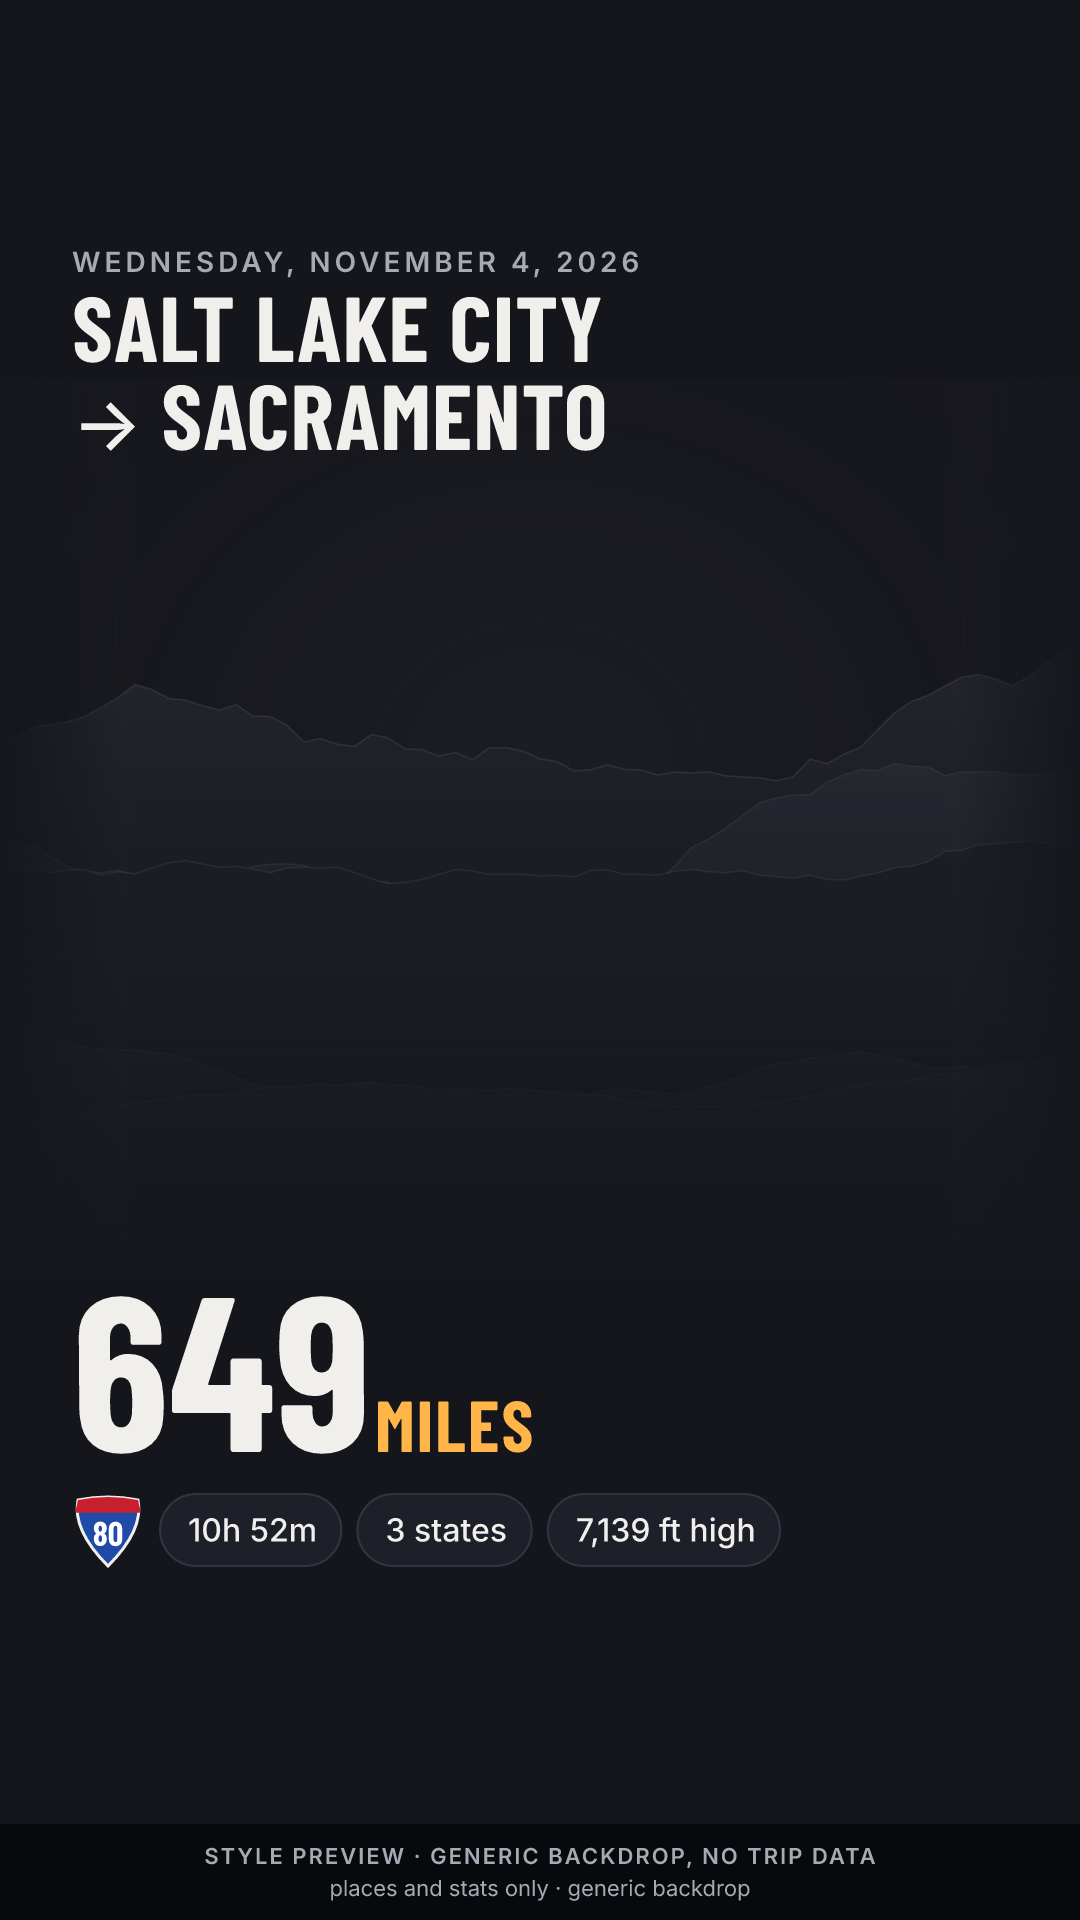
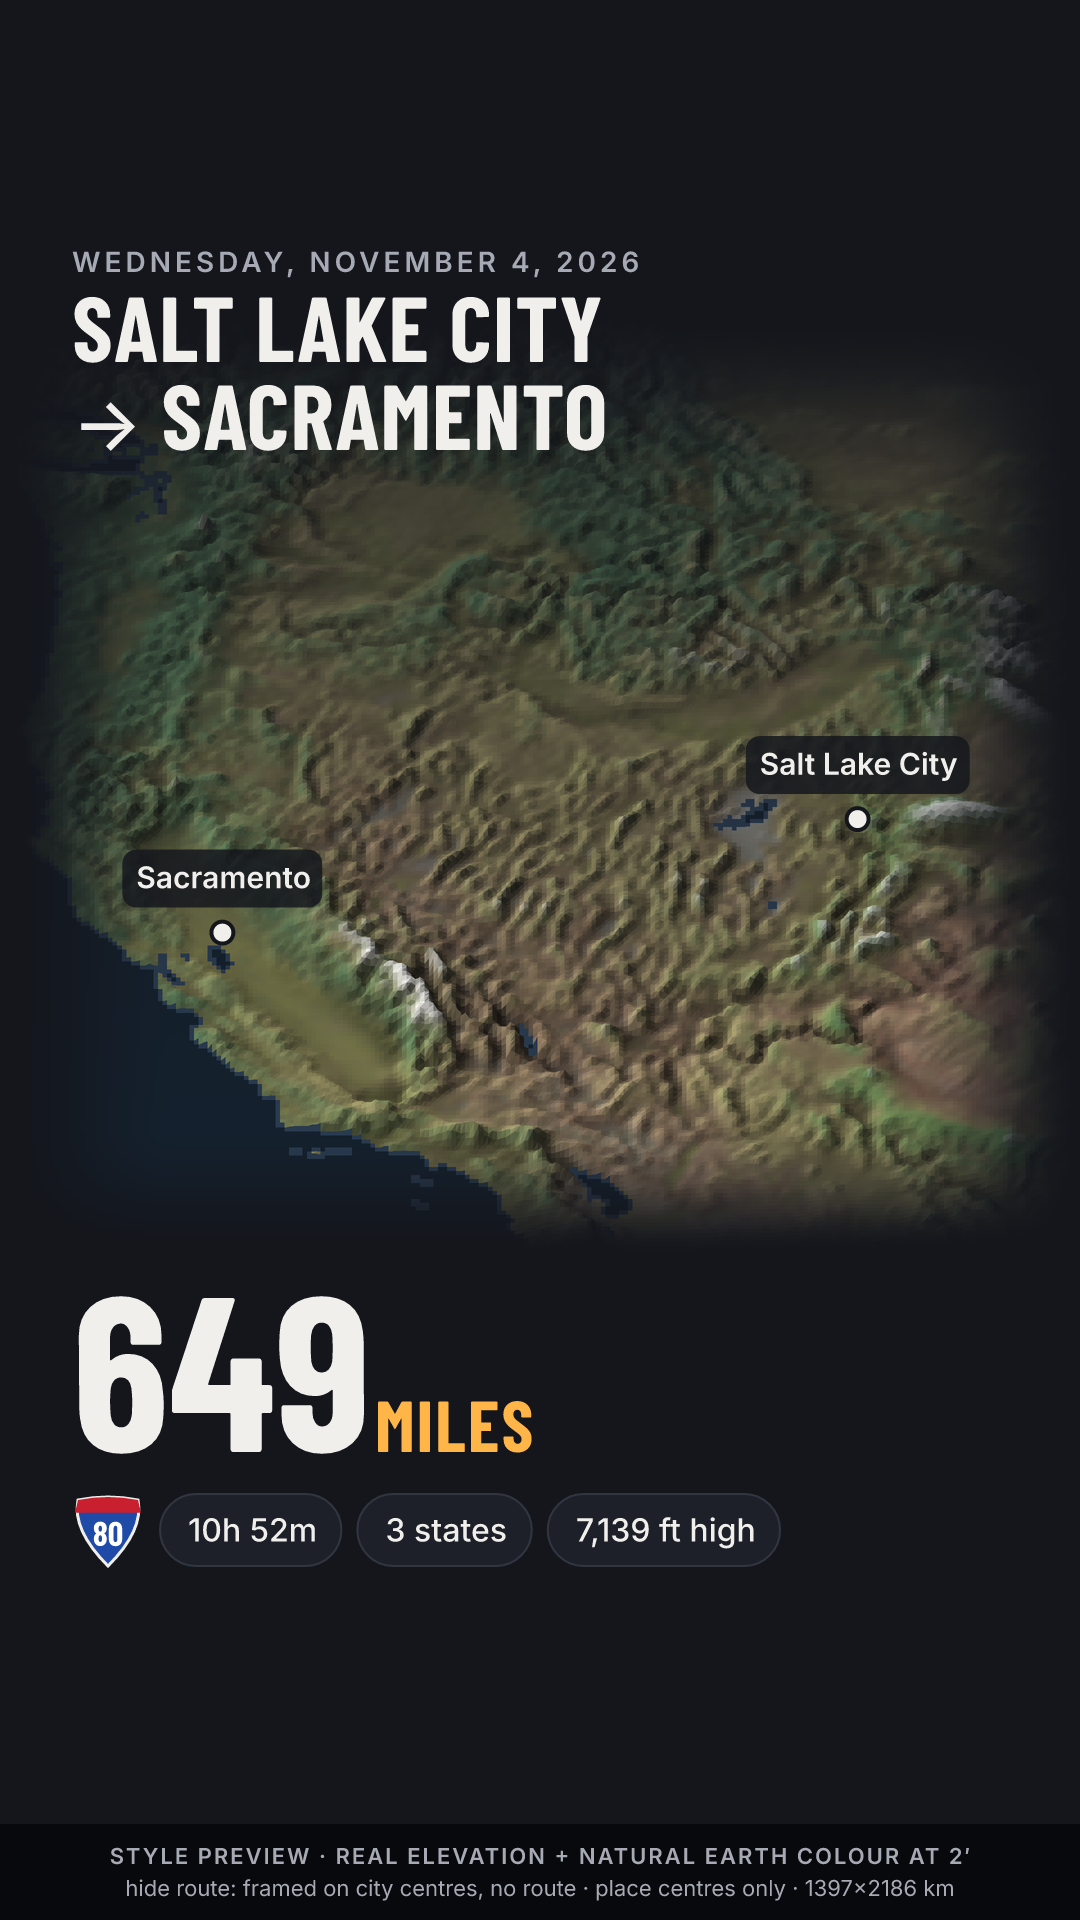
design: Terrain style 3, land-cover colour and place-framed hide-route (ROA-11)
Board feedback: all-grey 3D looks weird; hide-route card has no picture;
look at Strava.
- Ground colour from Natural Earth I land cover at the 2' grid, graded for
  the dark card, plus snow above 2,600 m and a real water colour. Extends
  plan §5.1 at the board's request.
- Hide-route shows relief framed on the two named places' city centres with
  pins and names; no route, route light, crop or summit. Generic backdrop
  retired.
- Stronger ribbon casing for amber over tan desert.

Changed region(s): [[0.0611, 0.2188, 0.9472, 0.6562], [0.1222, 0.9375, 0.8861, 1.0]]

diff --git a/Tools/design/terrain_relief.py b/Tools/design/terrain_relief.py
@@ -3,11 +3,12 @@
 
 Mirrors the ADR 0001 pipeline so the preview never shows more than the app can draw:
   real elevation (AWS Terrain Tiles, Terrarium) -> box-averaged to the 2' grid the app bundles
-  -> 160x160 mesh -> per-triangle colour (hypsometric ramp x hillshade x occlusion, haze, edge fade,
-  route light) -> flat triangles painted far-to-near, like SwiftUI Canvas will.
+  -> mesh -> per-triangle colour (Natural Earth land cover graded for dark, snow, x hillshade x
+  occlusion, haze, edge fade, route light) -> flat triangles painted far-to-near, like SwiftUI Canvas.
+  --places frames two city centre points instead of the route (hide-route card): no route, no light.
 Writes build/<name>.relief.png (1080x1920, RGB) and build/<name>.relief.json (projected route).
 
-Usage: python3 terrain_relief.py <name> [--flat]   (needs numpy, scipy, pillow; Linux design tool only)
+Usage: python3 terrain_relief.py <name> [--flat | --places]   (needs numpy, scipy, pillow; Linux design tool only)
 """
 import io, json, math, os, sys, urllib.request
 import numpy as np
@@ -86,6 +87,33 @@ def sample_grid(g, glon0, glat0, lon, lat):
     return ndimage.map_coordinates(g, [(glat0 - lat) / CELL, (lon - glon0) / CELL], order=3, mode='nearest')
 
 
+# ---------- land cover colour ----------
+_LC = None
+
+
+def landcover(lon, lat):
+    """Natural Earth I land cover (NE1_LR_LC, public domain) resampled to the 2' grid, RGB 0-255."""
+    global _LC
+    if _LC is None:
+        Image.MAX_IMAGE_PIXELS = None
+        p = os.path.join(CACHE, 'ne', 'ne1_2min.png')
+        if not os.path.exists(p):
+            sys.exit('missing .cache/ne/ne1_2min.png: run Tools/design/fetch_landcover.py first')
+        _LC = np.asarray(Image.open(p).convert('RGB'), np.float32)
+    r, c = (90 - np.asarray(lat)) / CELL - 0.5, (np.asarray(lon) + 180) / CELL - 0.5
+    return np.stack([ndimage.map_coordinates(_LC[..., q], [r, c], order=1, mode='nearest') for q in range(3)], -1)
+
+
+def grade(rgb):
+    """Grade the daylight land-cover tint for the dark card (terrain.landCover tokens)."""
+    lc = TT['landCover']
+    c = rgb / 255.0
+    lum = (c @ np.array([0.299, 0.587, 0.114]))[..., None]
+    c = lum + (c - lum) * v(lc['saturation'])
+    c = np.clip(c, 0, 1) ** v(lc['gamma']) * v(lc['brightness'])
+    return c * 255
+
+
 # ---------- routes ----------
 def densify(pts, step_m):
     out = [pts[0]]
@@ -157,6 +185,12 @@ def route_osrm(name, step):
     return [[p[0], p[1], float(a)] for p, a in zip(pts, alt)]
 
 
+PLACES = {  # city centre points (what the card's title already names), never trip points
+    'i80': [[-111.891, 40.761], [-121.494, 38.582]],
+    'brenner': [[11.393, 47.268], [11.354, 46.498]],
+    'nullarbor': [[121.783, -32.198], [133.676, -32.126]],
+}
+
 ROUTES = {
     'i80': route_i80,
     'brenner': lambda: route_osrm('brenner', 400),
@@ -165,20 +199,15 @@ ROUTES = {
 
 
 # ---------- colour helpers ----------
-def ramp(t):
-    stops = v(TT['land']['ramp'])
-    pos = np.array([s['position'] for s in stops]); cols = np.array([hexrgb(s['color']) for s in stops])
-    return np.stack([np.interp(t, pos, cols[:, q]) for q in range(3)], -1)
-
-
 def smoothstep(a, b, x):
     t = np.clip((x - a) / (b - a), 0, 1)
     return t * t * (3 - 2 * t)
 
 
 # ---------- scene ----------
-def render(name, flat=False):
-    route = ROUTES[name.split('-')[0]]()
+def render(name, flat=False, places=False):
+    key = name.split('-')[0]
+    route = [[lo, la, None] for lo, la in PLACES[key]] if places else ROUTES[key]()
     lon = np.array([p[0] for p in route]); lat = np.array([p[1] for p in route])
     lat0, lon0 = (lat.min() + lat.max()) / 2, (lon.min() + lon.max()) / 2
     kx = math.cos(math.radians(lat0)) * M_PER_DEG
@@ -187,7 +216,7 @@ def render(name, flat=False):
     rx, ry = fwd(lon, lat)
 
     el = math.radians(v(TT['camera']['elevationDeg']))
-    pad = v(L['routePadding'])
+    pad = v(TT['hiddenRoute']['framePadding']) if places else v(L['routePadding'])
     top, fh = v(L['reliefTop']), v(L['reliefHeight'])
     depth_px = fh * v(L['reliefDepthFill'])
     rw = max(np.ptp(rx) * (1 + 2 * pad), MIN_FOOTPRINT)
@@ -221,18 +250,20 @@ def render(name, flat=False):
     SX, SY = project(MX, MY, h)
 
     # ---- per-triangle colour (what RoadPrintCore would emit as colour indices) ----
-    tris, cols, depth = [], [], []
     hs = TT['hillshade']
     az, alt = math.radians(v(hs['lightAzimuthDeg'])), math.radians(v(hs['lightAltitudeDeg']))
     Lv = np.array([math.sin(az) * math.cos(alt), math.cos(az) * math.cos(alt), math.sin(alt)])
     oc = TT['occlusion']
     blur = ndimage.uniform_filter(h, size=2 * v(oc['radiusCells']) + 1, mode='nearest')
     occ = np.clip(1 + v(oc['strength']) * (h - blur) / span, v(oc['min']), v(oc['max']))
-    t_h = np.clip((h - p_lo) / (p_hi - p_lo + 1e-9), 0, 1)
-    base_rgb = ramp(t_h)
-    if flat:
-        base_rgb[:] = hexrgb(v(C['land']))
-    water_rgb = hexrgb(v(TT['land']['water'])); coast_rgb = hexrgb(v(TT['land']['waterEdge']))
+    raw = landcover(MLON, MLAT)
+    # Water: below sea level in the DEM, or Natural Earth's white water/no-data (lakes) at low height.
+    water = water | ((raw.min(-1) > 250) & (h < 2000))
+    base_rgb = grade(raw)
+    sn = TT['snow']
+    snow = 0 if flat else smoothstep(v(sn['startMeters']), v(sn['fullMeters']), h)[..., None] * v(sn['opacity'])
+    base_rgb = base_rgb * (1 - snow) + hexrgb(v(sn['color'])) * snow
+    water_rgb = hexrgb(v(TT['water']['color'])); coast_rgb = hexrgb(v(TT['water']['edge']))
     # world-space fades (fractions of footprint)
     ef = TT['edgeFade']
     u = (MX - x0) / gw; w_ = (MY - y0) / gd
@@ -246,7 +277,7 @@ def render(name, flat=False):
     rpts = (rpts[:-1][None] * (1 - seg) + rpts[1:][None] * seg).reshape(-1, 2)
     dist, _ = cKDTree(rpts).query(np.column_stack([MX.ravel(), MY.ravel()]))
     sigma = v(rl['radius']) / s
-    light = (v(rl['intensity']) * np.exp(-0.5 * (dist / sigma) ** 2)).reshape(MX.shape)
+    light = (v(rl['intensity']) * np.exp(-0.5 * (dist / sigma) ** 2)).reshape(MX.shape) * (0 if places else 1)
     light_rgb = hexrgb(v(rl['color']))
 
     # Smooth vertex normals; each triangle takes the mean of its three vertex shades. Still one flat
@@ -293,6 +324,9 @@ def render(name, flat=False):
     bias = v(TT['ribbon']['depthBias']) / (s * math.cos(el))   # screen-px bias -> exaggerated metres
     pts = []
     for (px_, py_, rec), xx, yy in zip(route, rx, ry):
+        if places:
+            X, Y = project(xx, yy, float(hfun(np.array([xx]), np.array([yy]))[0]))
+            pts.append({'sx': float(X), 'sy': float(Y), 'place': True}); continue
         if rec is None:
             pts.append({'sx': float((xx - x0) * s), 'sy': None, 'gap': True, 'elev': None}); continue
         z = hbase if flat else rec
@@ -313,4 +347,4 @@ def render(name, flat=False):
 
 
 if __name__ == '__main__':
-    render(sys.argv[1], flat='--flat' in sys.argv)
+    render(sys.argv[1], flat='--flat' in sys.argv, places='--places' in sys.argv)

diff --git a/Tools/design/fetch_landcover.py b/Tools/design/fetch_landcover.py
@@ -1,0 +1,24 @@
+#!/usr/bin/env python3
+"""Fetch Natural Earth I land cover (NE1_LR_LC, public domain) and resample it to the ADR 0001 2' grid.
+Writes .cache/ne/ne1_2min.png (10800x5400). Design-preview tool only; ~75 MB download."""
+import os, urllib.request, zipfile
+import numpy as np
+from PIL import Image
+
+D = os.path.join(os.path.dirname(os.path.abspath(__file__)), '.cache', 'ne')
+os.makedirs(D, exist_ok=True)
+z = os.path.join(D, 'NE1_LR_LC.zip')
+if not os.path.exists(z):
+    urllib.request.urlretrieve('https://naturalearth.s3.amazonaws.com/10m_raster/NE1_LR_LC.zip', z)
+tif = zipfile.ZipFile(z).extract('NE1_LR_LC.tif', D)
+im = Image.open(tif)
+w, h = im.size
+off = im.tile[0].offset            # uncompressed contiguous RGB strips: memory-map, resample in bands
+a = np.memmap(tif, dtype=np.uint8, mode='r', offset=off, shape=(h, w, 3))
+out = Image.new('RGB', (10800, 5400))
+band = h // 27
+for r in range(0, h, band):
+    out.paste(Image.fromarray(np.array(a[r:r + band])).resize((10800, band * 5400 // h), Image.BOX), (0, r * 5400 // h))
+out.save(os.path.join(D, 'ne1_2min.png'))
+os.remove(tif)
+print('ne1_2min.png 10800x5400')

diff --git a/Design/cards/terrain/README.md b/Design/cards/terrain/README.md
@@ -1,6 +1,6 @@
 # Terrain share card (Pro)
 
-Style `terrain-style-2` for the Terrain card in plan §4.4 and ADR [0001](../../../docs/adr/0001-terrain-card.md). Export size is 1080×1920 px, sRGB. **The board has not approved this style yet**, so it must not go into the app before that approval ([ROA-11](/ROA/issues/ROA-11)).
+Style `terrain-style-3` for the Terrain card in plan §4.4 and ADR [0001](../../../docs/adr/0001-terrain-card.md). Export size is 1080×1920 px, sRGB. **The board has not approved this style yet**, so it must not go into the app before that approval ([ROA-11](/ROA/issues/ROA-11)).
 
 All values live in [`Design/tokens.json`](../../tokens.json) under `terrain.*`. The SVGs and previews here are built from those tokens. If a file disagrees with the tokens, the tokens win. Every size is in export pixels.
 
@@ -9,8 +9,7 @@ All values live in [`Design/tokens.json`](../../tokens.json) under `terrain.*`. 
 | File | What it is |
 |---|---|
 | `terrain-card.svg` | Editable composition template. Shows the layer order, the slots and the placeholder text. The `#ribbon-*` paths are style samples only |
-| `terrain-card-hide-route.svg` | Template for the "Hide route on card" option: places and stats only, on the generic backdrop |
-| `terrain-backdrop.svg` | Generic backdrop for hide-route, 1080×900. It is the same for every trip and encodes no route, place or summit |
+| `terrain-card-hide-route.svg` | Template for the "Hide route on card" option: places and stats only, over relief framed on the two named places' city centres |
 | `previews/*.png` | 1080×1920 previews (see below) and `contact-sheet.png` |
 
 ## Layer order (bottom to top)
@@ -22,20 +21,22 @@ All values live in [`Design/tokens.json`](../../tokens.json) under `terrain.*`. 
    2. `ribbon-gap`: grey `#a6aab4` dots, 5 px, round caps every 13 px
    3. glow 0: 14 px, blur 6, 65 % opacity
    4. glow 1: 24 px, blur 22, 35 % opacity
-   5. casing: `#14161c`, 13 px, 60 % opacity
+   5. casing: `#14161c`, 14 px, 85 % opacity (separates amber from tan desert)
    6. core: amber, 8 px
 4. `#route-ends`: approximate start and end circles (r 16, 3 px stroke, 18 % fill), because trip ends are trimmed.
 5. `#summit`: marker (r 9 `#f0efec` with a 4 px background ring), a vertical leader (2 px, 70 % opacity, 120 px long) and a label plate (`#14161c` at 85 %, radius 14, padding 14).
 6. Header, stats and road sign.
 
-## Relief look (terrain-style-2)
+## Relief look (terrain-style-3)
 
 What makes the relief read as 3D instead of a grey slab. Each step is plain per-vertex or per-triangle maths, so it belongs in `RoadPrintCore` and ports to Android as is:
 
-1. **Height colour** (`terrain.land.ramp`): trip-relative height (p2 → p99.5 of land in the footprint) through `#1d2029 → #30353f → #6b6f79 → #a6aab4 → #f0efec`, so valleys sit in the dark and peaks catch light.
+1. **Ground colour** (`terrain.landCover`): Natural Earth I land cover (public domain, already a project data source) at the same 2′ grid as the elevation: green forest, tan desert, rock. It is graded for the dark card: saturation 1.6, gamma 1.35, brightness 0.64. **This extends the plan §5.1 palette, at the board's request** (ROA-11: "the 3D should have colour, not all grey"). Water is `terrain.water` (`#15212e`, edge `#2b3d52`).
+   - **Snow** (`terrain.snow`): above 2,600 m the ground blends toward `#f0efec`, fully by 3,300 m (85 %).
+   - **App cost, for the CTO:** the land cover adds a global 10800×5400 RGB layer next to the elevation grid. Compressed size is not measured yet; the 2′ PNG is 30 MB, and a palette-indexed or HEIF version should be far smaller.
 2. **Hillshade** (`terrain.hillshade`): Lambert shading with smooth vertex normals on the exaggerated mesh, light from 300°, 32° up. Each triangle takes the mean of its three vertex shades. Shading each face alone makes neighbours flip between light and dark along the diagonal, which shows as a checkerboard.
 3. **Occlusion** (`terrain.occlusion`): `h − boxBlur(h, 6 cells)` darkens valleys and lifts ridges.
-4. **Route light** (`terrain.routeLight`): heat-ramp `#c2650f` added around the route, a 26 px gaussian at 0.42. It ties the ribbon to the ground. It is not drawn in hide-route mode.
+4. **Route light** (`terrain.routeLight`): heat-ramp `#c2650f` added around the route, a 26 px gaussian at 0.35. It ties the ribbon to the ground. It is not drawn in hide-route mode.
 5. **Haze** (`terrain.haze`): far rows blend to the background colour (0.78 · depth^1.5).
 6. **Edge fade** (`terrain.edgeFade`): sides 16 %, near 14 %, far 20 % of the footprint blend to the background, so the terrain dissolves instead of ending in a cut slab.
 7. **Exaggeration** (`terrain.camera.exaggeration`): 0.065 × footprint width ÷ relief, clamped to 1.5–10×. Above about 10× the 2′ cells turn into needles (I-80 at 25× looked like a hedgehog).
@@ -86,19 +87,19 @@ All text is a live placeholder that the app fills from `TripShareSummary` and th
 | `i80-terrain.png` | The real I-80 route from Salt Lake City to Sacramento (mockup data), the Donner Summit label, and an illustrative 60-mile altitude gap |
 | `brenner-terrain.png` | Innsbruck to Bolzano, a pass name, km |
 | `brenner-terrain-long-labels.png` | German strings, a 2-line title, a long summit name, and safe-area guides |
-| `nullarbor-flat.png` | Flat landscape: the 1,200 m minimum ramp span keeps flat land dark and quiet; the Great Australian Bight at sea level uses the background colour |
-| `i80-altitude-unavailable.png` | No usable absolute altitude: a flat land plane, no heights from the elevation data, no summit, and an "Elevation unavailable" notice |
-| `i80-hide-route.png` | Places and stats only on the generic layered-ridge backdrop (`Tools/design/terrain-backdrop.mjs`, fixed seed). No route, no route-shaped crop, no summit location |
+| `nullarbor-flat.png` | Flat landscape: the 1,200 m minimum span keeps exaggeration calm; the Great Australian Bight shows as water |
+| `i80-altitude-unavailable.png` | No usable absolute altitude: a flat, unshaded land-cover plane, no heights, no summit, and an "Elevation unavailable" notice |
+| `i80-hide-route.png` | The board asked for a real picture here. Relief framed on the two named places' **city centre points** (the same places the title shows, from offline place lookup, never trip points), with a pin and name for each. No route, no route light, no route-shaped crop, no summit location |
 
-### Real elevation, but not the bundle
+### Real elevation and colour, but not the bundle
 
-The relief uses **real elevation**: AWS Terrain Tiles (Terrarium, z7) box-averaged to 2′ cells on the global 2′ lattice, which is what the ETOPO 2022 bundle in ADR 0001 stores. It is then bicubic-resampled onto the mesh, so it shows no more detail than the app can.
+The relief uses **real elevation**: AWS Terrain Tiles (Terrarium, z7) box-averaged to 2′ cells on the global 2′ lattice, which is what the ETOPO 2022 bundle in ADR 0001 stores. It is then bicubic-resampled onto the mesh, so it shows no more detail than the app can. Colour comes from Natural Earth I land cover (`NE1_LR_LC`) box-resampled to the same 2′ grid.
 
 It is still a **style preview, not dataset validation**. The real bundle from [ROA-9](/ROA/issues/ROA-9) has to be checked against this style before release.
 
 - I-80 uses the real mockup route and elevation profile from `docs/plan/mockups/source/`. The 60-mile altitude gap is illustrative.
 - Brenner (A13/A22, 118.9 km) and Nullarbor (Eyre Highway) use OSRM road geometry (© OpenStreetMap contributors, ODbL). The "recorded" altitude is z10 elevation sampled on the road and smoothed. Trip ends are trimmed 8 km.
-- Terrain tiles and routes are cached in `Tools/design/.cache/` and never committed.
+- Terrain tiles, the land-cover raster and routes are cached in `Tools/design/.cache/` and never committed.
 
 Every preview carries a stamp saying this, and the stamp is never part of the card.
 
@@ -120,7 +121,7 @@ On the brightest relief, amber's luminance is close to the land colour. That is 
 ```bash
 cd Tools/design && npm install && npm run fonts
 pip install --user numpy scipy pillow   # terrain_relief.py
-node terrain-backdrop.mjs        # generic hide-route backdrop
+python3 fetch_landcover.py       # once: Natural Earth land cover → .cache/ne/ne1_2min.png (75 MB download)
 node terrain-previews.mjs        # all six previews (about 2 min; add --reuse to skip relief rebuilds)
 node contact-sheet.mjs
 node render.mjs ../../Design/cards/terrain/*.svg --out ../../Design/cards/terrain/previews
@@ -128,4 +129,4 @@ node render.mjs ../../Design/cards/terrain/*.svg --out ../../Design/cards/terrai
 
 ## Handoff
 
-The iOS Engineer draws the core draw list and the overlays in Canvas from the generated token constants ([ROA-12](/ROA/issues/ROA-12)). The Platform Engineer's core uses the `terrain.camera`, `terrain.hillshade`, `terrain.occlusion`, `terrain.land`, `terrain.haze`, `terrain.edgeFade`, `terrain.routeLight` and `terrain.ribbon.depthBias` tokens ([ROA-10](/ROA/issues/ROA-10)). `Tools/design/terrain_relief.py` is a readable reference for the colour maths. Mesh size, footprint minimum and quality limits are engineering configuration, not tokens.
+The iOS Engineer draws the core draw list and the overlays in Canvas from the generated token constants ([ROA-12](/ROA/issues/ROA-12)). The Platform Engineer's core uses the `terrain.camera`, `terrain.hillshade`, `terrain.occlusion`, `terrain.landCover`, `terrain.snow`, `terrain.water`, `terrain.land`, `terrain.haze`, `terrain.edgeFade`, `terrain.routeLight` and `terrain.ribbon.depthBias` tokens ([ROA-10](/ROA/issues/ROA-10)). `Tools/design/terrain_relief.py` is a readable reference for the colour maths. Mesh size, footprint minimum and quality limits are engineering configuration, not tokens.

diff --git a/Tools/design/README.md b/Tools/design/README.md
@@ -10,7 +10,7 @@ cd Tools/design
 npm install
 npm run fonts                                   # Inter + Barlow Condensed
 node render.mjs path/to/file.svg [--width 60] [--out dir]
-node terrain-backdrop.mjs                       # generic hide-route backdrop SVG
+python3 fetch_landcover.py                      # once: Natural Earth land cover at 2′ (75 MB)
 node terrain-previews.mjs [variant ...]         # Terrain card previews (ROA-11); calls terrain_relief.py
 node contact-sheet.mjs                          # 3×2 sheet of the Terrain previews
 ```
@@ -19,4 +19,4 @@ node contact-sheet.mjs                          # 3×2 sheet of the Terrain prev
 
 - **Text fallback.** resvg falls back to another font for a whole `<text>` element when one glyph is missing. Barlow Condensed has no `→`, so the preview builder draws the arrow as its own Inter element. The app's native text layout doesn't have this problem.
 - **Condensed fonts.** Condensed fonts need `font-stretch="condensed"` for resvg to match them.
-- **Relief layer.** `terrain_relief.py` (Python 3 with numpy, scipy and pillow: `pip install --user numpy scipy pillow`) fetches public AWS Terrain Tiles, averages them to the ADR 0001 2′ grid, and paints the flat-shaded mesh. It needs network access on the first run; tiles and OSRM routes are cached in `.cache/` (git-ignored). It is a style preview, not dataset validation. See `Design/cards/terrain/README.md`.
+- **Relief layer.** `terrain_relief.py` (Python 3 with numpy, scipy and pillow: `pip install --user numpy scipy pillow`) fetches public AWS Terrain Tiles, averages them to the ADR 0001 2′ grid, colours them with Natural Earth land cover, and paints the flat-shaded mesh. It needs network access on the first run; tiles and OSRM routes are cached in `.cache/` (git-ignored). It is a style preview, not dataset validation. See `Design/cards/terrain/README.md`.
